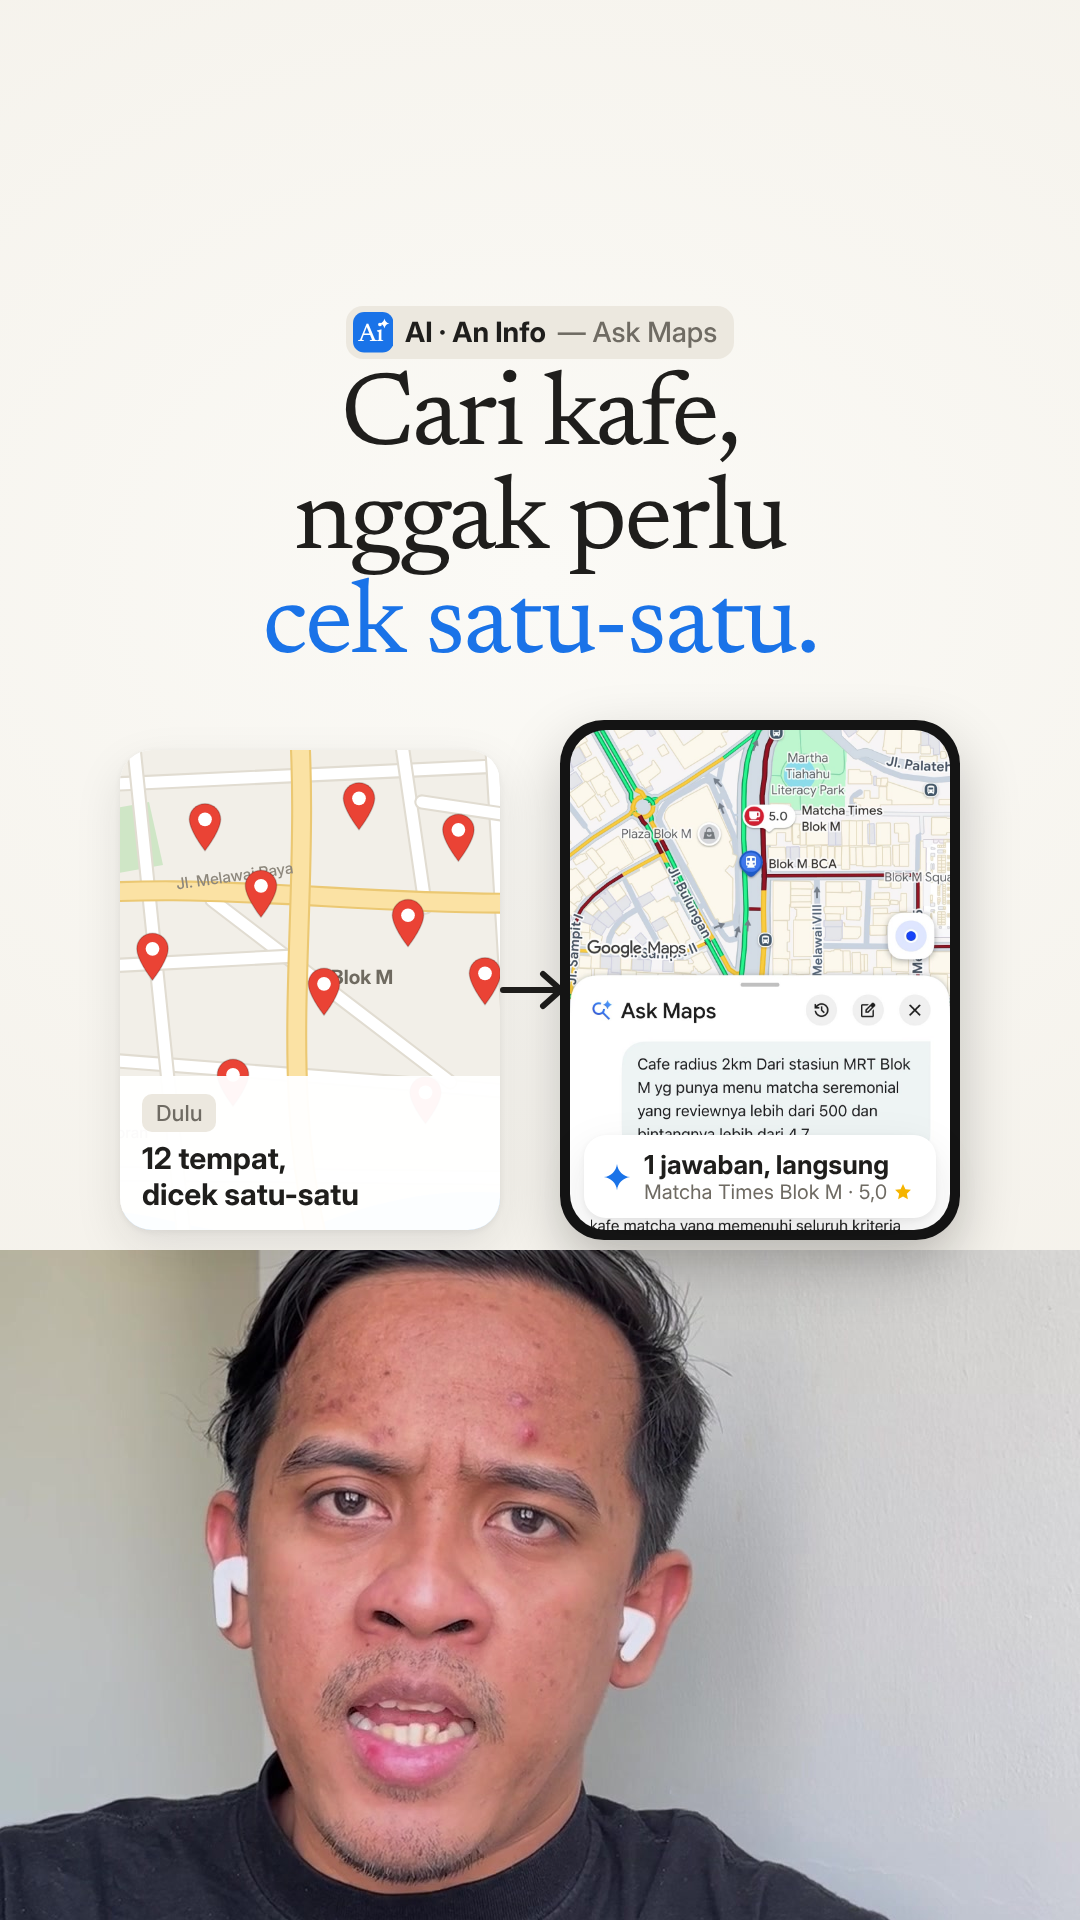
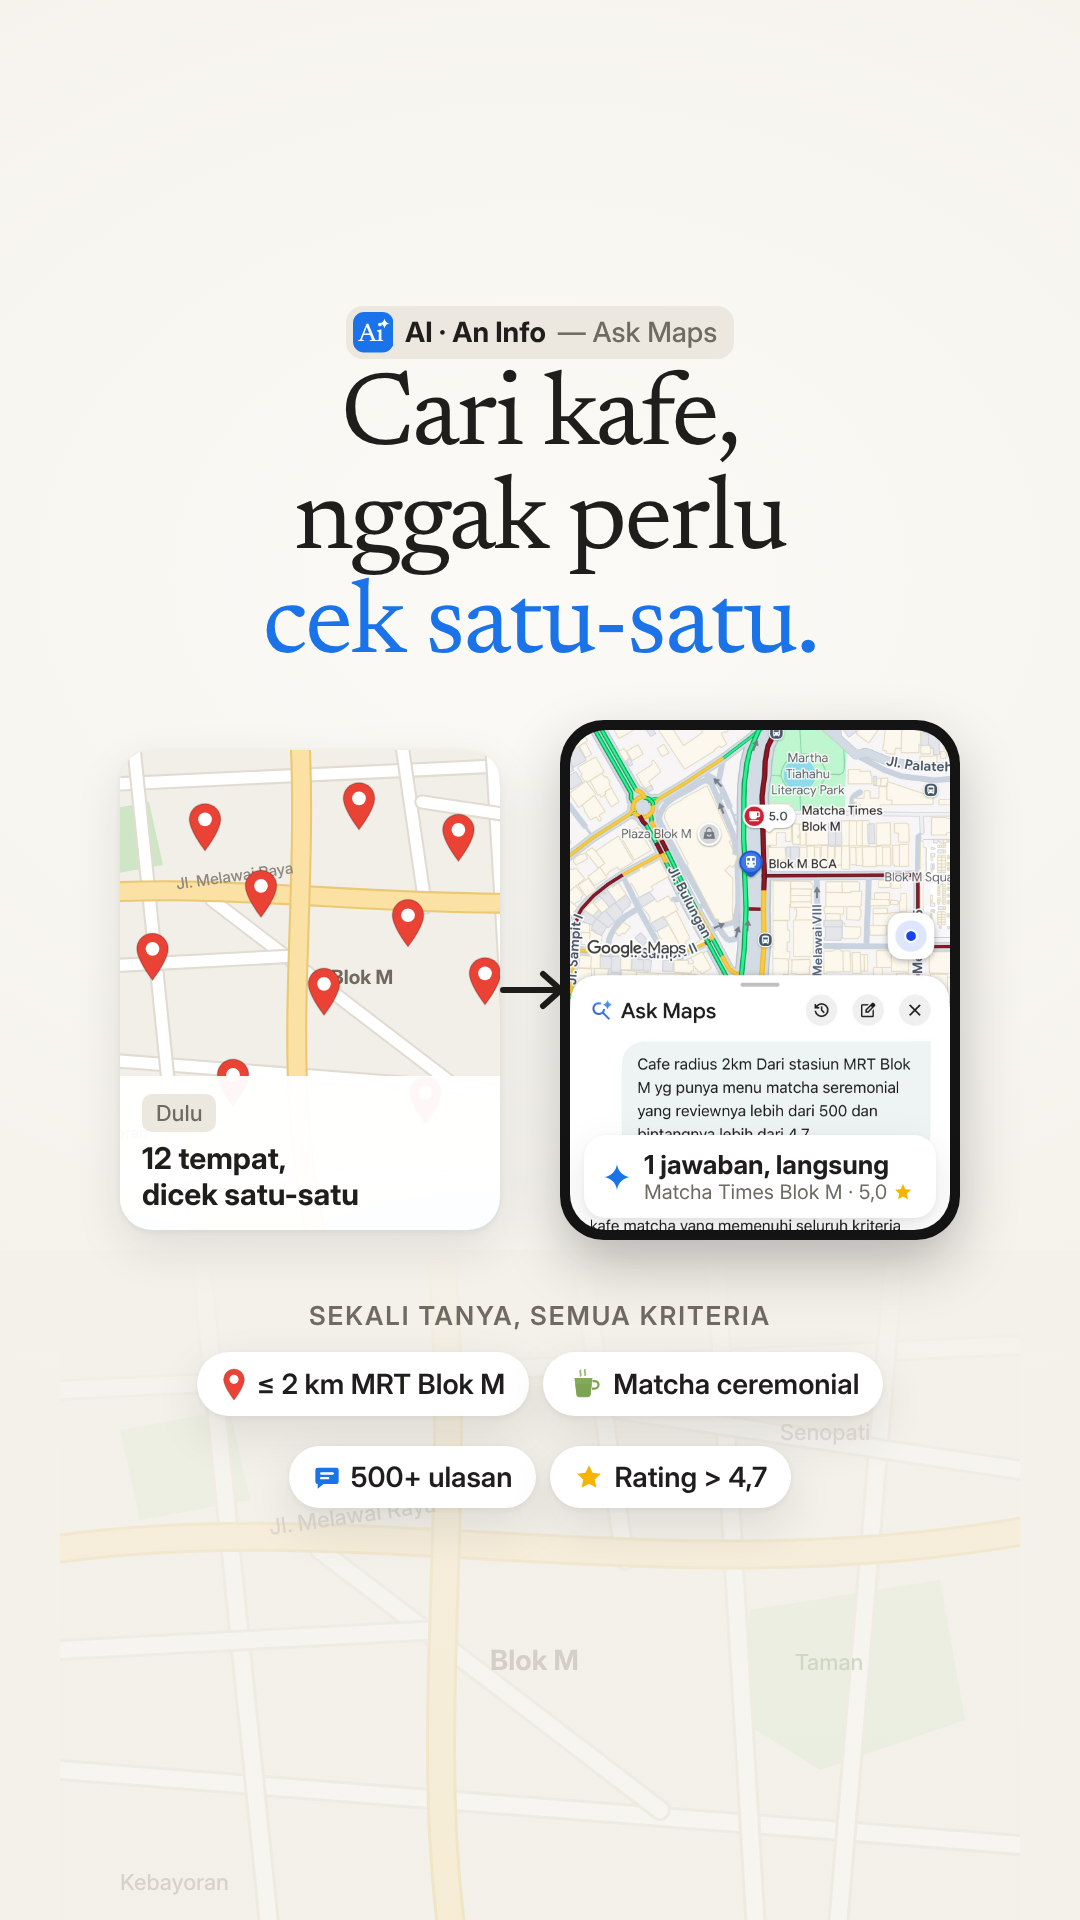
faqihpedia-askmaps: cover without the face; criteria chips fill the lower band
Claude-Session: https://claude.ai/code/session_018xRo3dLkTueX2rkmvZyzov

diff --git a/faqihpedia-askmaps/src/Thumbnail.tsx b/faqihpedia-askmaps/src/Thumbnail.tsx
@@ -2,11 +2,11 @@ import React from 'react';
 import { AbsoluteFill, Img, staticFile } from 'remotion';
 import { MapArt, PINS } from './scenes';
 import { C, SANS, SERIF, soft } from './theme';
-import { Pin, SegmentTag, Sparkle, Star, Tag } from './ui';
+import { Chat, Cup, Pin, SegmentTag, Sparkle, Star, Tag } from './ui';
 
 /*
  * Cover for TikTok, IG Reels and IG Feed. Headline + key visual stay inside
- * the shared safe box x 120-960, y 285-1250 (see SAFE); only the face sits below.
+ * the shared safe box x 120-960, y 285-1250 (see SAFE); only decoration sits below.
  */
 export const SAFE = { x: 120, y: 285, w: 840, h: 965 };
 
@@ -61,13 +61,25 @@ const NewWay: React.FC = () => (
   </div>
 );
 
-export const Cover: React.FC<{ guides?: boolean; offsetY?: number; faceY?: number }> = ({ guides = false, offsetY = 0, faceY = 560 }) => (
+export const Cover: React.FC<{ guides?: boolean; offsetY?: number }> = ({ guides = false, offsetY = 0 }) => (
   <AbsoluteFill style={{ background: C.bg }}>
     <div style={{ position: 'absolute', left: 0, top: -offsetY, width: 1080, height: 1920 }}>
       <AbsoluteFill style={{ background: `radial-gradient(1200px 900px at 50% 30%, ${C.paper}, ${C.bg})` }} />
-      {/* face: the split layout from the video, framed so eyes + mouth stay inside the IG 4:5 crop (y < 1635) */}
+      {/* lower band: not critical (sits under the TikTok/Reels caption UI) but shown in the IG 3:4 and 4:5 crops */}
       <div style={{ position: 'absolute', left: 0, top: 1250, width: 1080, height: 670, overflow: 'hidden' }}>
-        <Img src={staticFile('thumb_face.jpg')} style={{ position: 'absolute', left: 0, top: -faceY, width: 1080 }} />
+        <div style={{ position: 'absolute', left: 60, top: 0, opacity: 0.45 }}><MapArt /></div>
+        <div style={{ position: 'absolute', inset: 0, background: `linear-gradient(${C.bg} 0%, rgba(244,241,234,0.55) 30%, rgba(244,241,234,0.35) 100%)` }} />
+      </div>
+      <div style={{ position: 'absolute', left: 0, right: 0, top: 1300, textAlign: 'center', fontFamily: SANS, fontSize: 26, fontWeight: 600, letterSpacing: 2, color: C.sub }}>
+        SEKALI TANYA, SEMUA KRITERIA
+      </div>
+      <div style={{ position: 'absolute', left: 0, right: 0, top: 1352, display: 'flex', justifyContent: 'center', gap: 14, fontFamily: SANS }}>
+        <div style={{ display: 'flex', alignItems: 'center', gap: 10, background: C.card, borderRadius: 40, padding: '14px 24px', boxShadow: soft, fontSize: 28, fontWeight: 600, color: C.ink }}><Pin size={26} /> ≤ 2 km MRT Blok M</div>
+        <div style={{ display: 'flex', alignItems: 'center', gap: 10, background: C.card, borderRadius: 40, padding: '14px 24px', boxShadow: soft, fontSize: 28, fontWeight: 600, color: C.ink }}><Cup size={36} color={C.matcha} liquid={C.matcha} /> Matcha ceremonial</div>
+      </div>
+      <div style={{ position: 'absolute', left: 0, right: 0, top: 1446, display: 'flex', justifyContent: 'center', gap: 14, fontFamily: SANS }}>
+        <div style={{ display: 'flex', alignItems: 'center', gap: 10, background: C.card, borderRadius: 40, padding: '14px 24px', boxShadow: soft, fontSize: 28, fontWeight: 600, color: C.ink }}><Chat size={28} /> 500+ ulasan</div>
+        <div style={{ display: 'flex', alignItems: 'center', gap: 10, background: C.card, borderRadius: 40, padding: '14px 24px', boxShadow: soft, fontSize: 28, fontWeight: 600, color: C.ink }}><Star size={30} /> Rating &gt; 4,7</div>
       </div>
       <div style={{ position: 'absolute', left: 0, right: 0, top: 306, textAlign: 'center' }}>
         <SegmentTag topic="Ask Maps" size={28} />

diff --git a/README.md b/README.md
@@ -108,7 +108,7 @@ npm run render -- --browser-executable=<chrome-headless-shell>
 | 49.5–54.9 | `split` | before vs now |
 | 54.9–end | `full` | outro + "Like dulu, ya" |
 
-**Cover** (`faqihpedia-askmaps/thumbnail/cover.png`, 1080×1920): one file for TikTok, IG Reels and the IG feed. Headline and visuals stay inside the shared safe box x 120–960, y 285–1250. The face is framed so the eyes and mouth stay inside IG's 3:4 grid and 4:5 feed crops. `cover-safe-area-check.png` shows the overlays. Render with `npx remotion still Thumbnail thumbnail/cover.png`.
+**Cover** (`faqihpedia-askmaps/thumbnail/cover.png`, 1080×1920): one file for TikTok, IG Reels and the IG feed. Headline and visuals stay inside the shared safe box x 120–960, y 285–1250. Below the safe box are only decorative elements, the criteria chips over a faded map, so IG's 3:4 grid and 4:5 feed crops don't show an empty band. `cover-safe-area-check.png` shows the overlays. Render with `npx remotion still Thumbnail thumbnail/cover.png`.
 
 The segment standard ("AI (An Info)") is documented separately: story beats, editing rules, style, safe areas and a checklist.
 
